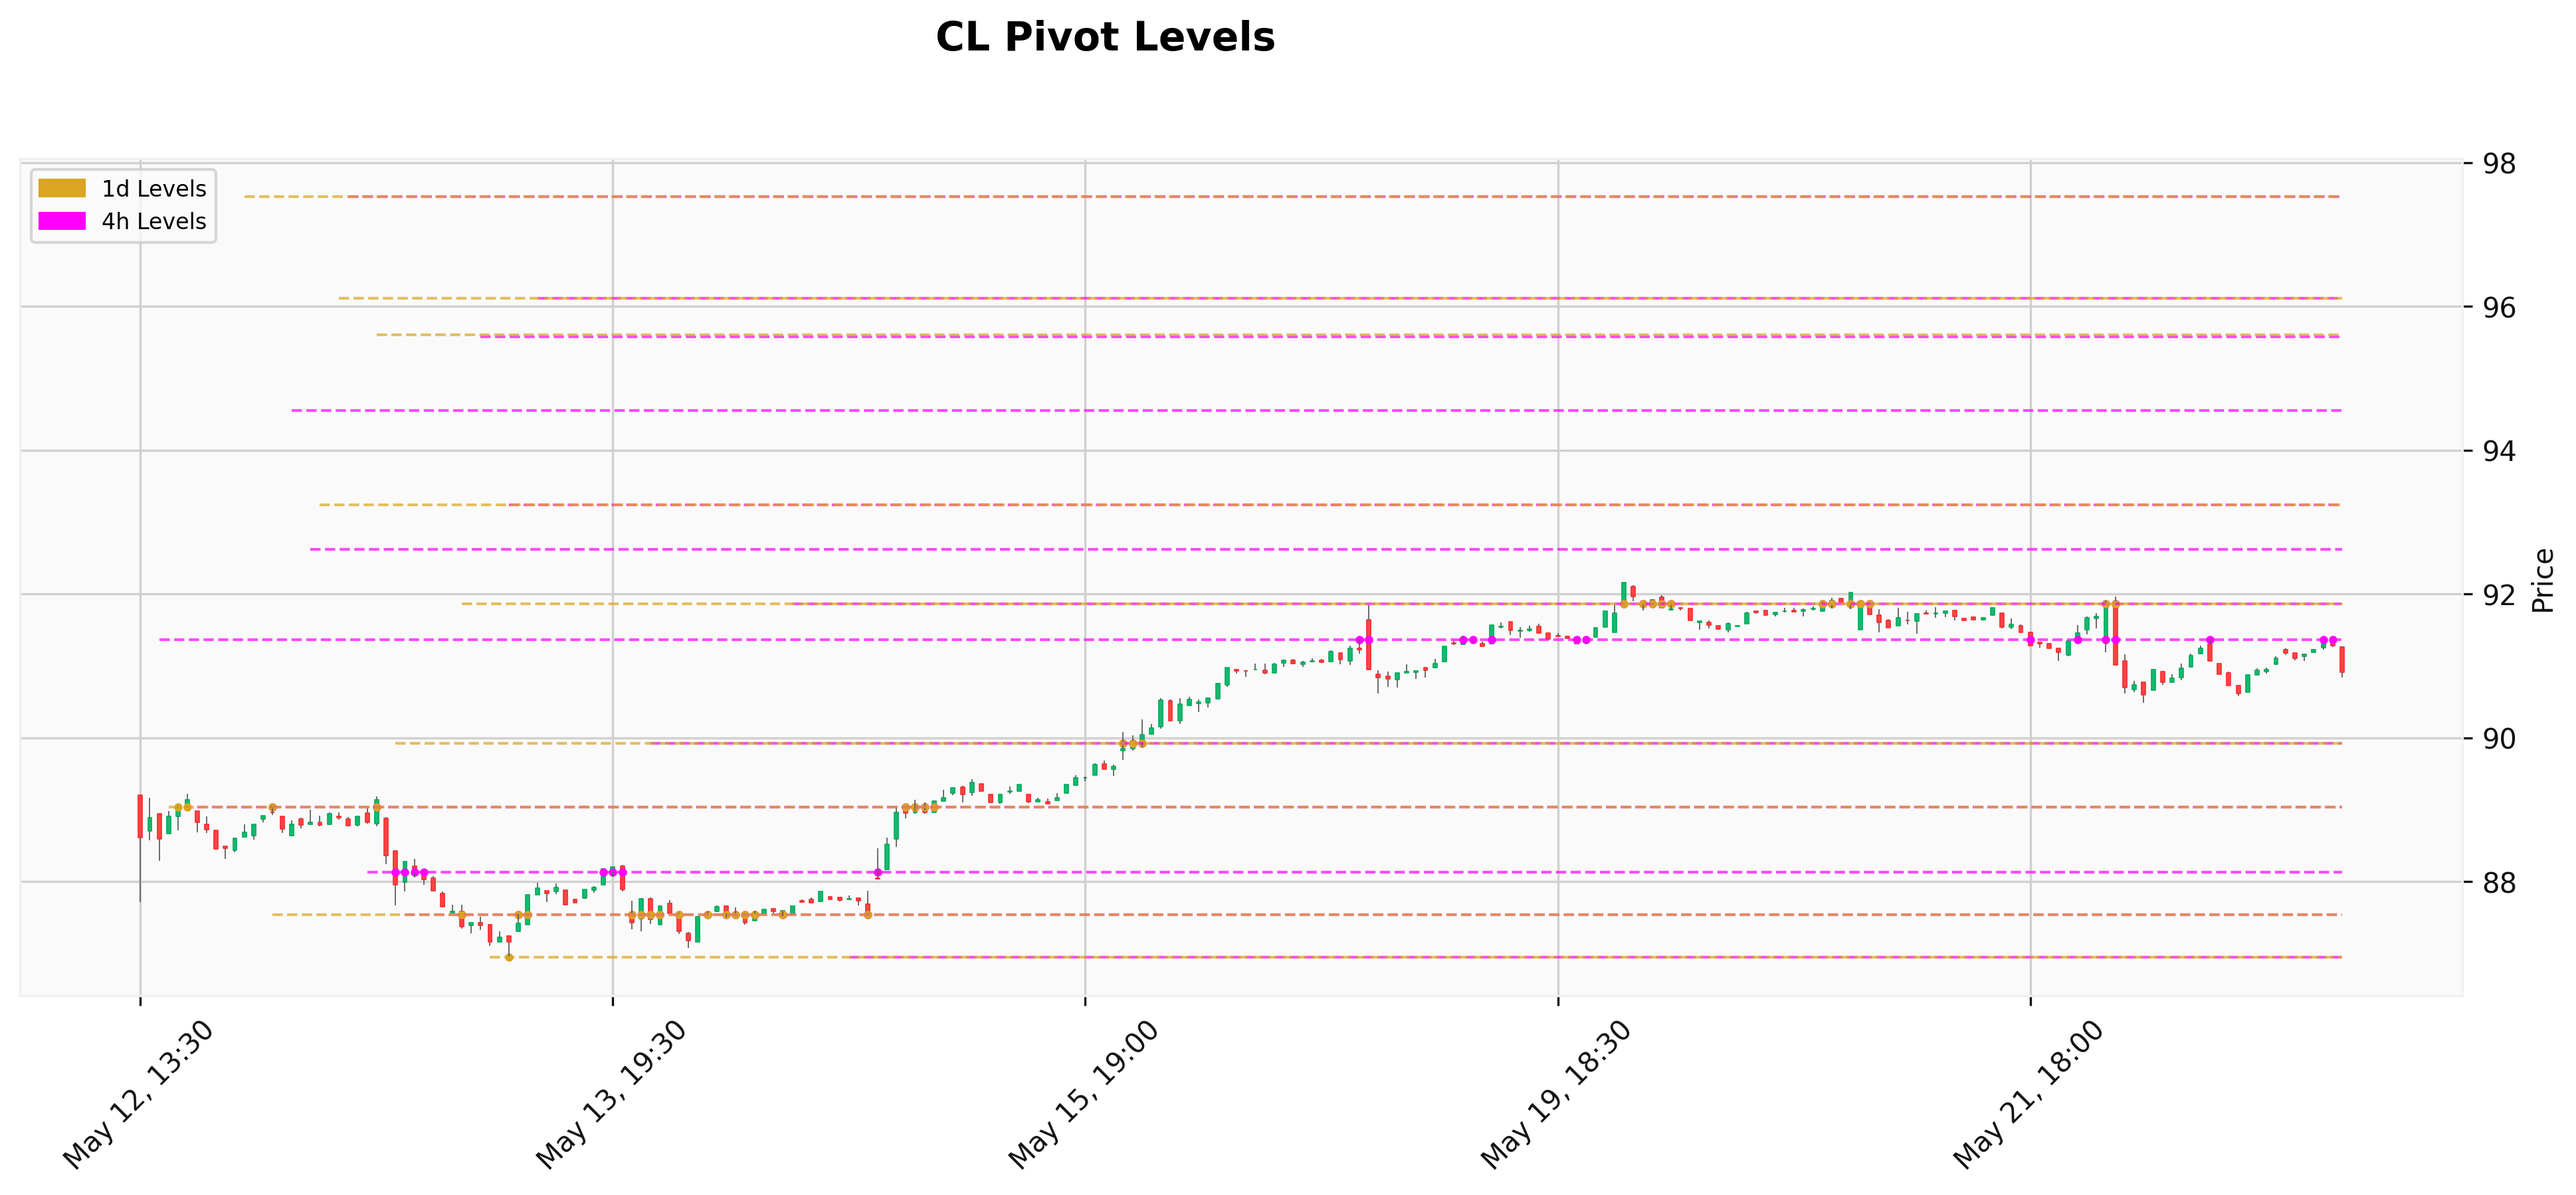
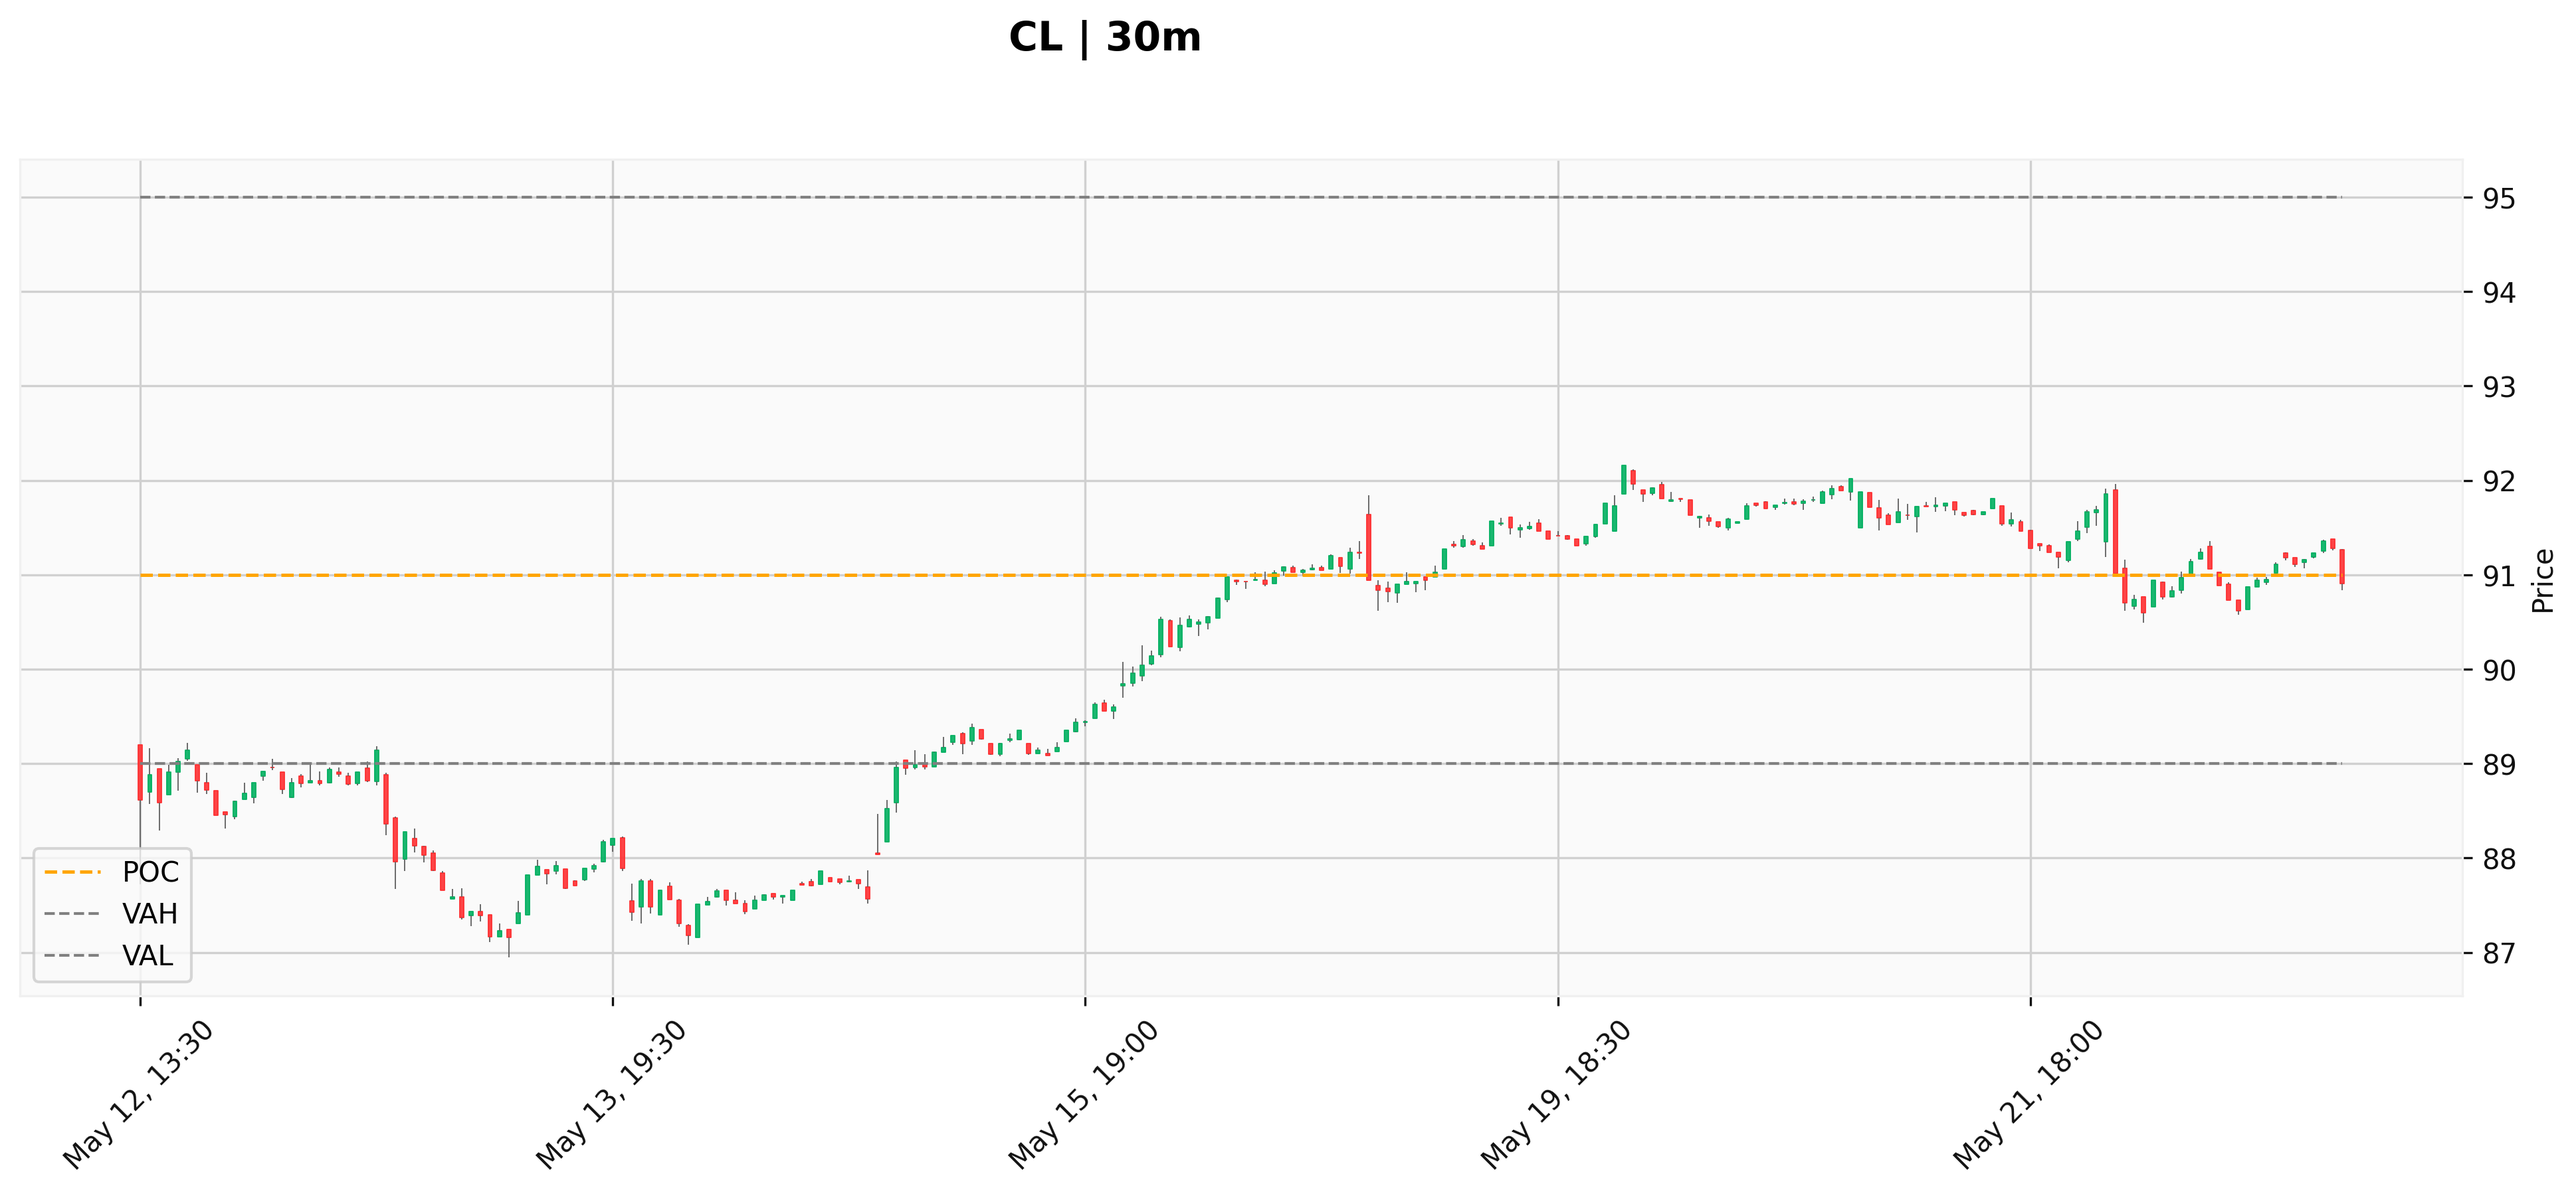
Refactor MarketProfileIndicator to use TPO logic with session-based overlays
- Added support for TPO-based profile generation per daily session
- Refactored compute() to use plot_df column for grouping without relying on datetime index
- Added structured logging for session matching and value area stats
- Deduplicated legend handling to avoid repeated entries in chart
- to_overlays() now returns overlays and legend_entries consistently with PivotLevelIndicator

diff --git a/classes/indicators/MarketProfileIndicator.py b/classes/indicators/MarketProfileIndicator.py
@@ -4,61 +4,107 @@ import pandas as pd
 from typing import Dict, List
 from classes.indicators.BaseIndicator import BaseIndicator
 from mplfinance.plotting import make_addplot
+from classes.indicators.config import DataContext
+from classes.Logger import logger
+from typing import Tuple, Set
 
 
 class MarketProfileIndicator(BaseIndicator):
     NAME = "market_profile"
 
-    def __init__(self, df: pd.DataFrame, bin_size: float = 0.1):
+    def __init__(self, df: pd.DataFrame, bin_size: float = 0.1, mode: str = "tpo"):
         super().__init__(df)
         self.bin_size = bin_size
-        self.daily_profiles: List[Dict[str, float]] = []
-        self.df.index = pd.to_datetime(self.df.index, utc=True)
+        self.mode = mode  # "tpo" for now
+        self.daily_profiles: List[Dict[str, float]] = self.compute() 
+
+    @classmethod
+    def from_context(cls, provider, ctx: DataContext, bin_size: float = 0.1, mode: str = "tpo", interval: str = "30m") -> "MarketProfileIndicator":
+        """
+        Instantiate MarketProfileIndicator from a provider and a DataContext.
+        """
+        ctx = DataContext(
+            symbol=ctx.symbol,
+            start=ctx.start,
+            end=ctx.end,
+            interval=interval
+        )
+        ctx.validate()
+        
+        df = provider.get_ohlcv(ctx)
+
+        if df is None or df.empty:
+            logger.warning("No data found for MarketProfile [%s] from %s to %s", ctx.symbol, ctx.start, ctx.end)
+            rows_ingested = provider.ingest_history(ctx)
+            if rows_ingested == 0:
+                raise ValueError(f"Failed to ingest data for {ctx.symbol} ({ctx.interval}) from {ctx.start} to {ctx.end}")
+            df = provider.get_ohlcv(ctx)
+
+        if df.empty:
+            raise ValueError(f"MarketProfileIndicator: No data to compute after ingest for {ctx.symbol} [{ctx.interval}]")
+
+        return cls(df=df, bin_size=bin_size, mode=mode)
 
     def compute(self) -> List[Dict[str, float]]:
+        """
+        Computes TPO-based market profile for each daily session.
+        """
+    
         df = self.df.copy()
-        df.index = pd.to_datetime(df.index, utc=True)
+        df.index = pd.to_datetime(df.index, utc=True)        
         grouped = df.groupby(df.index.date)
+
         profiles = []
 
         for date, group in grouped:
-            volume_hist = self._build_volume_histogram(group)
-            profile = self._extract_value_area(volume_hist)
-            profile["date"] = pd.to_datetime(date)
+            tpo_hist = self._build_tpo_histogram(group)
+            profile = self._extract_value_area(tpo_hist)
+            profile["date"] = pd.to_datetime(str(date)).tz_localize("UTC")
             profiles.append(profile)
+            logger.debug("Profile for %s: POC=%.2f, VAH=%.2f, VAL=%.2f", profile["date"], profile["POC"], profile["VAH"], profile["VAL"])
+
+
+        
 
         self.daily_profiles = profiles
         return profiles
 
-    def _build_volume_histogram(self, df: pd.DataFrame) -> Dict[float, float]:
-        volume_by_price = defaultdict(float)
+    def _build_tpo_histogram(self, df: pd.DataFrame) -> Dict[float, int]:
+        """
+        Builds a TPO histogram: counts how many 30m bars visited each price bucket.
+        """
+        tpo_count = defaultdict(int)
 
         for _, row in df.iterrows():
             low = row["low"]
             high = row["high"]
-            volume = row["volume"]
 
+            # Round each price into buckets
             price_range = np.arange(low, high + self.bin_size, self.bin_size)
-            vol_per_price = volume / len(price_range)
 
             for price in price_range:
                 bucket = round(price / self.bin_size) * self.bin_size
-                volume_by_price[bucket] += vol_per_price
+                tpo_count[bucket] += 1
 
-        return dict(volume_by_price)
+        return dict(tpo_count)
 
-    def _extract_value_area(self, volume_hist: Dict[float, float]) -> Dict[str, float]:
-        total_volume = sum(volume_hist.values())
-        sorted_buckets = sorted(volume_hist.items(), key=lambda x: x[1], reverse=True)
+    def _extract_value_area(self, tpo_hist: Dict[float, int]) -> Dict[str, float]:
+        """
+        Given a TPO histogram, computes:
+        - POC (most visited price)
+        - VAH, VAL (top and bottom of 70% of TPOs)
+        """
+        total_tpos = sum(tpo_hist.values())
+        sorted_buckets = sorted(tpo_hist.items(), key=lambda x: x[1], reverse=True)
 
         poc = sorted_buckets[0][0]
-        cumulative_volume = 0
+        cumulative = 0
         value_area_prices = []
 
-        for price, vol in sorted_buckets:
-            cumulative_volume += vol
+        for price, count in sorted_buckets:
+            cumulative += count
             value_area_prices.append(price)
-            if cumulative_volume >= 0.7 * total_volume:
+            if cumulative >= 0.7 * total_tpos:
                 break
 
         return {
@@ -67,18 +113,54 @@ class MarketProfileIndicator(BaseIndicator):
             "VAL": min(value_area_prices),
         }
 
-    def to_overlays(self) -> List:
+    def to_overlays(self, plot_df: pd.DataFrame) -> Tuple[List, Set[Tuple[str, str]]]:
+        """
+        Returns chart overlays (POC, VAH, VAL lines) aligned to the plot_df index.
+        Each value area line is aligned with the daily session window within plot_df.
+        Logs session matching details for debugging.
+
+        
+        """
+
         if not self.daily_profiles:
-            self.compute()
+            logger.warning("No daily profiles available to generate overlays.")
+            return []
 
         overlays = []
+        legend_entries = set()
+
+        full_index = plot_df.index
+        logger.info("Generating overlays for %d sessions", len(self.daily_profiles))
+
+        style_map = {
+            "POC": {"color": "orange", "width": 1.2},
+            "VAH": {"color": "gray", "width": 1},
+            "VAL": {"color": "gray", "width": 1},
+        }
+
         for profile in self.daily_profiles:
             date = profile["date"]
-            session_index = self.df[self.df.index.date == date.date()].index
-            if session_index.empty:
-                continue
-            overlays.append(make_addplot(pd.Series(profile["POC"], index=session_index), color="orange", width=1.2, linestyle="--", label="POC"))
-            overlays.append(make_addplot(pd.Series(profile["VAH"], index=session_index), color="gray", width=1, linestyle="--", label="VAH"))
-            overlays.append(make_addplot(pd.Series(profile["VAL"], index=session_index), color="gray", width=1, linestyle="--", label="VAL"))
+            session_index = plot_df[plot_df.index.date == date.date()].index
 
-        return overlays
+            if session_index.empty:
+                logger.warning("No candles matched for session date: %s", date.date())
+                continue
+
+            logger.debug("Matched %d candles for session date: %s", len(session_index), date.date())
+
+            for key, style in style_map.items():
+                session_series = pd.Series([profile[key]] * len(session_index), index=session_index)
+                aligned_line = session_series.reindex(full_index, fill_value=pd.NA)
+
+                overlays.append(make_addplot(
+                    aligned_line,
+                    color=style["color"],
+                    width=style["width"],
+                    linestyle="--",
+                    label=""
+                ))
+
+                legend_entries.add((key, style["color"]))
+
+        logger.info("Generated %d overlays total", len(overlays))
+        return overlays, legend_entries

diff --git a/main.py b/main.py
@@ -12,65 +12,26 @@ from classes.indicators.config import DataContext
 
 symbol = "CL"
 provider = AlpacaProvider()
-start_date = "2025-03-23"
-end_date = "2025-05-23"
-trading_start_date = "2025-03-20"
-trading_end_date = "2025-05-23"
-color_mode = "timeframe"  # role or timeframe
 
 trading_data_context = DataContext(
     symbol=symbol,
-    start="2025-03-20",
+    start="2025-04-20",
     end="2025-05-23",
     interval="15m"  # timeframe for trading data
 )
 
 def show_market_profile():
-    interval = "30m"
-    # provider.ingest_history(symbol=symbol, interval=interval, days=365)
-    df_30m = provider.get_ohlcv(symbol, start=start_date, end=end_date, interval=interval)
-    indicator = MarketProfileIndicator(df_30m)
-    overlays = indicator.to_overlays()
-
-    ChartPlotter.plot_ohlc(
-        df_30m,
-        title=f"{symbol} Market Profile (30min)",
-        symbol=symbol,
-        datasource=provider.get_datasource(),
-        start=start_date,
-        end=end_date,
-        overlays=overlays
-    )
-
-def show_pivot_levels():
     trading_chart = provider.get_ohlcv(trading_data_context)
 
-    overlays = []
-    legend_entries = set()
-    level_timeframes = ["4h", "1d"]
-
-    for tf in level_timeframes:
-        indicator = PivotLevelIndicator.from_context(
-            provider=provider,
-            ctx=trading_data_context,
-            level_timeframe=tf,
-            lookbacks=(2, 3, 5, 10, 20),
-        )
-        tf_overlays, tf_legends = indicator.to_overlays(plot_df=trading_chart, color_mode=color_mode)
-        overlays.extend(tf_overlays)
-        legend_entries.update(tf_legends)
+    market_profile = MarketProfileIndicator.from_context(provider, ctx=trading_data_context, interval="30m")
+    overlays, legend_keys = market_profile.to_overlays(trading_chart)
 
     provider.plot_ohlcv(
-        ctx=trading_data_context,
-        title=f"{symbol} Pivot Levels",
+        plot_ctx=trading_data_context,
+        title=f"{symbol} | {trading_data_context.interval} - {market_profile.NAME}",
         overlays=overlays,
-        legend_entries=legend_entries,
-        show_volume=False,
-        chart_type="candle"
+        legend_entries=legend_keys
     )
 
     
-
-    
-# show_market_profile()
-show_pivot_levels()
+show_market_profile()

diff --git a/data_providers/base_provider.py b/data_providers/base_provider.py
@@ -138,9 +138,14 @@ class BaseDataProvider(ABC):
             return df
 
         df["timestamp"] = pd.to_datetime(df["timestamp"], utc=True)
+        df.set_index("timestamp", inplace=True) # Set timestamp as index
+        df["timestamp"] = df.index
+
+
         return df
     
-    def plot_ohlcv(self, ctx: DataContext, title: str = None, **kwargs):
-        df = self.get_ohlcv(ctx)
-        title = title or f"{ctx.symbol} | {ctx.interval}"
-        ChartPlotter.plot_ohlc(df, title=title, ctx=ctx, datasource=self.get_datasource(), **kwargs)
+    def plot_ohlcv(self, plot_ctx: DataContext, title: str = None, **kwargs):
+        df = self.get_ohlcv(plot_ctx)
+        title = title or f"{plot_ctx.symbol} | {plot_ctx.interval}"
+        logger.debug("df index sample: %s", df.index)
+        ChartPlotter.plot_ohlc(df, title=title, ctx=plot_ctx, datasource=self.get_datasource(), **kwargs)

diff --git a/classes/ChartPlotter.py b/classes/ChartPlotter.py
@@ -39,7 +39,7 @@ class ChartPlotter:
 
             required_columns = {'timestamp', 'open', 'high', 'low', 'close'}
             if not required_columns.issubset(df.columns):
-                raise ValueError(f"DataFrame must contain columns: {required_columns}")
+                raise ValueError(f"DataFrame must contain columns: {required_columns}, but found: {df.columns}")
 
             df = df.copy()
             df['timestamp'] = pd.to_datetime(df['timestamp'])
